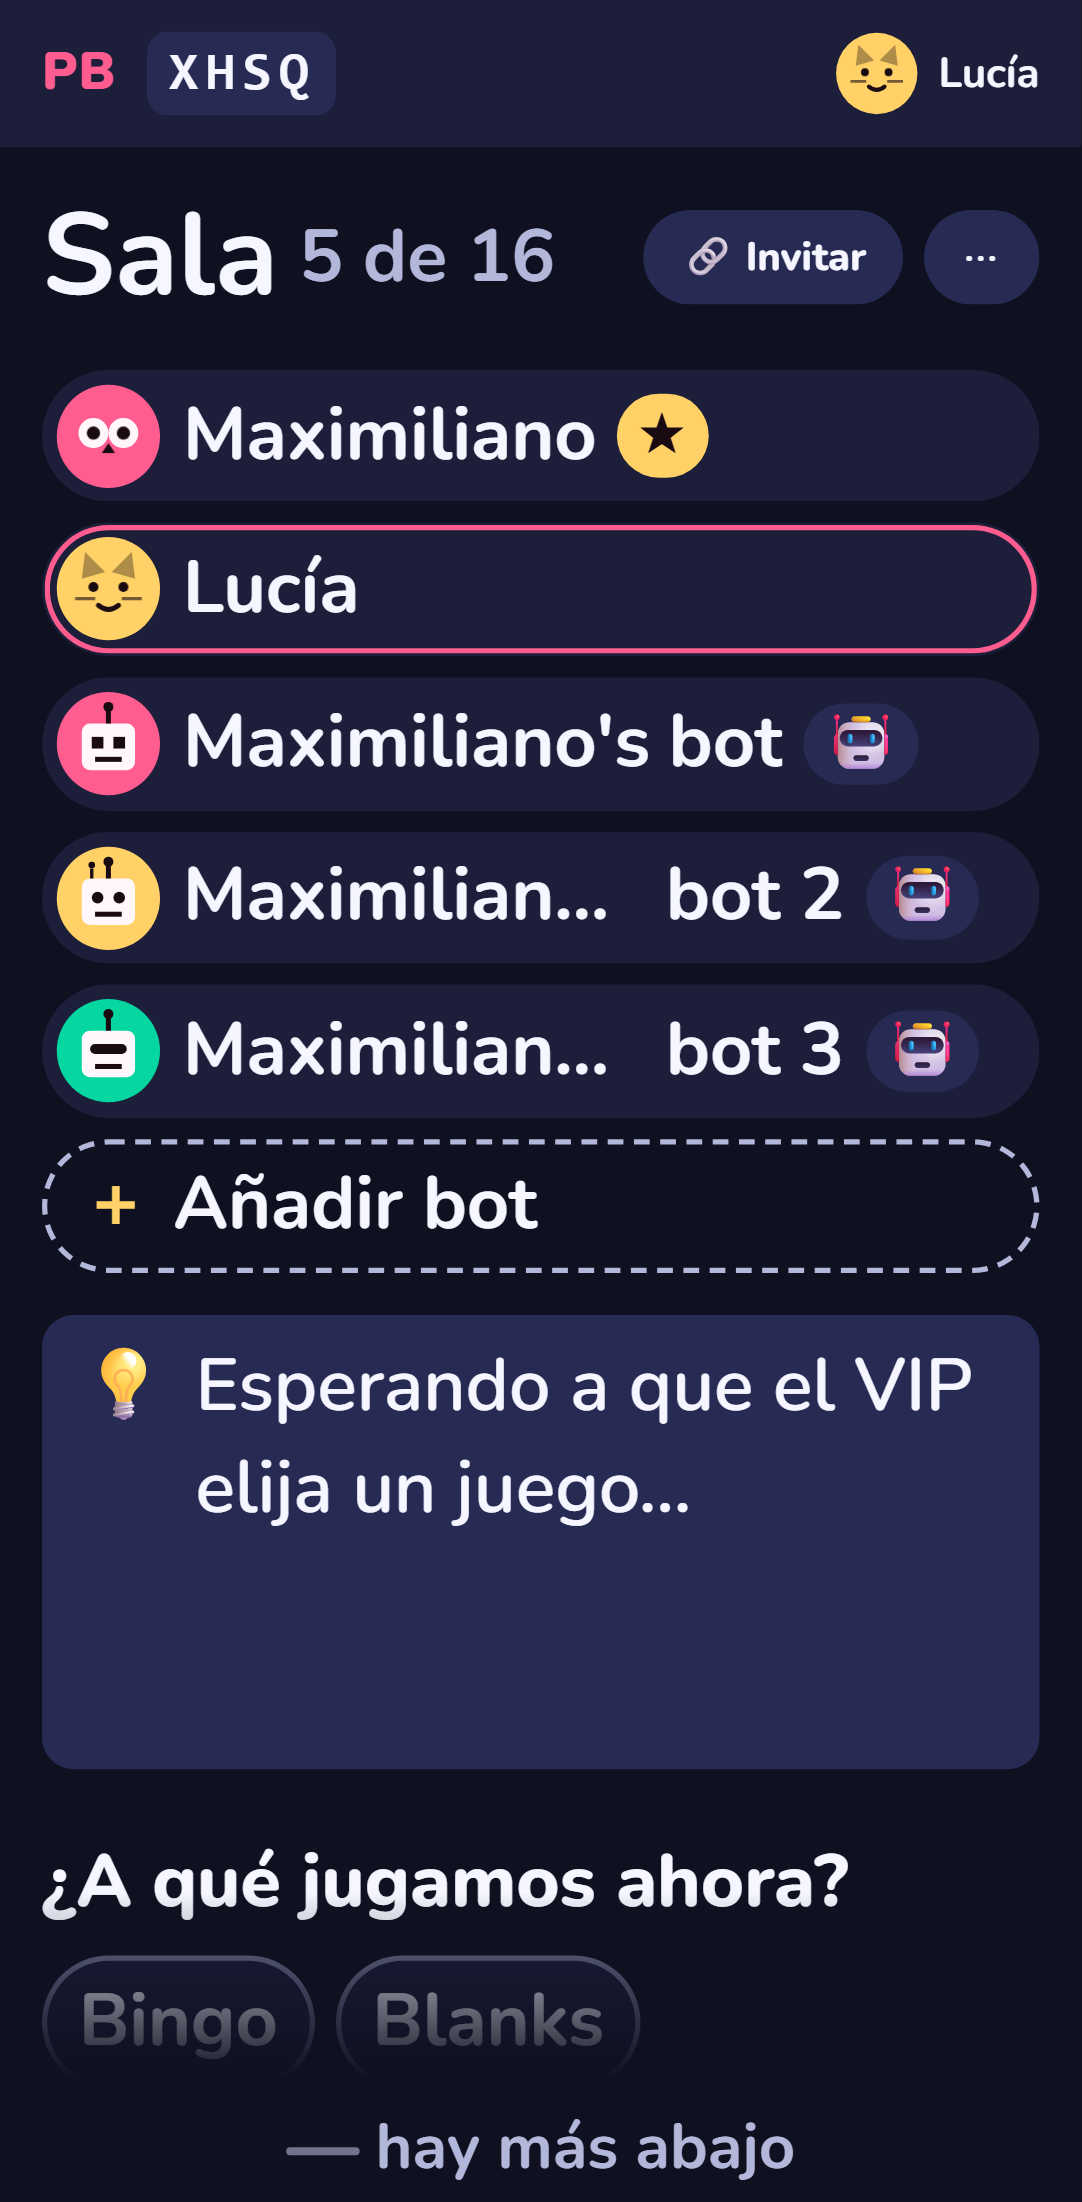
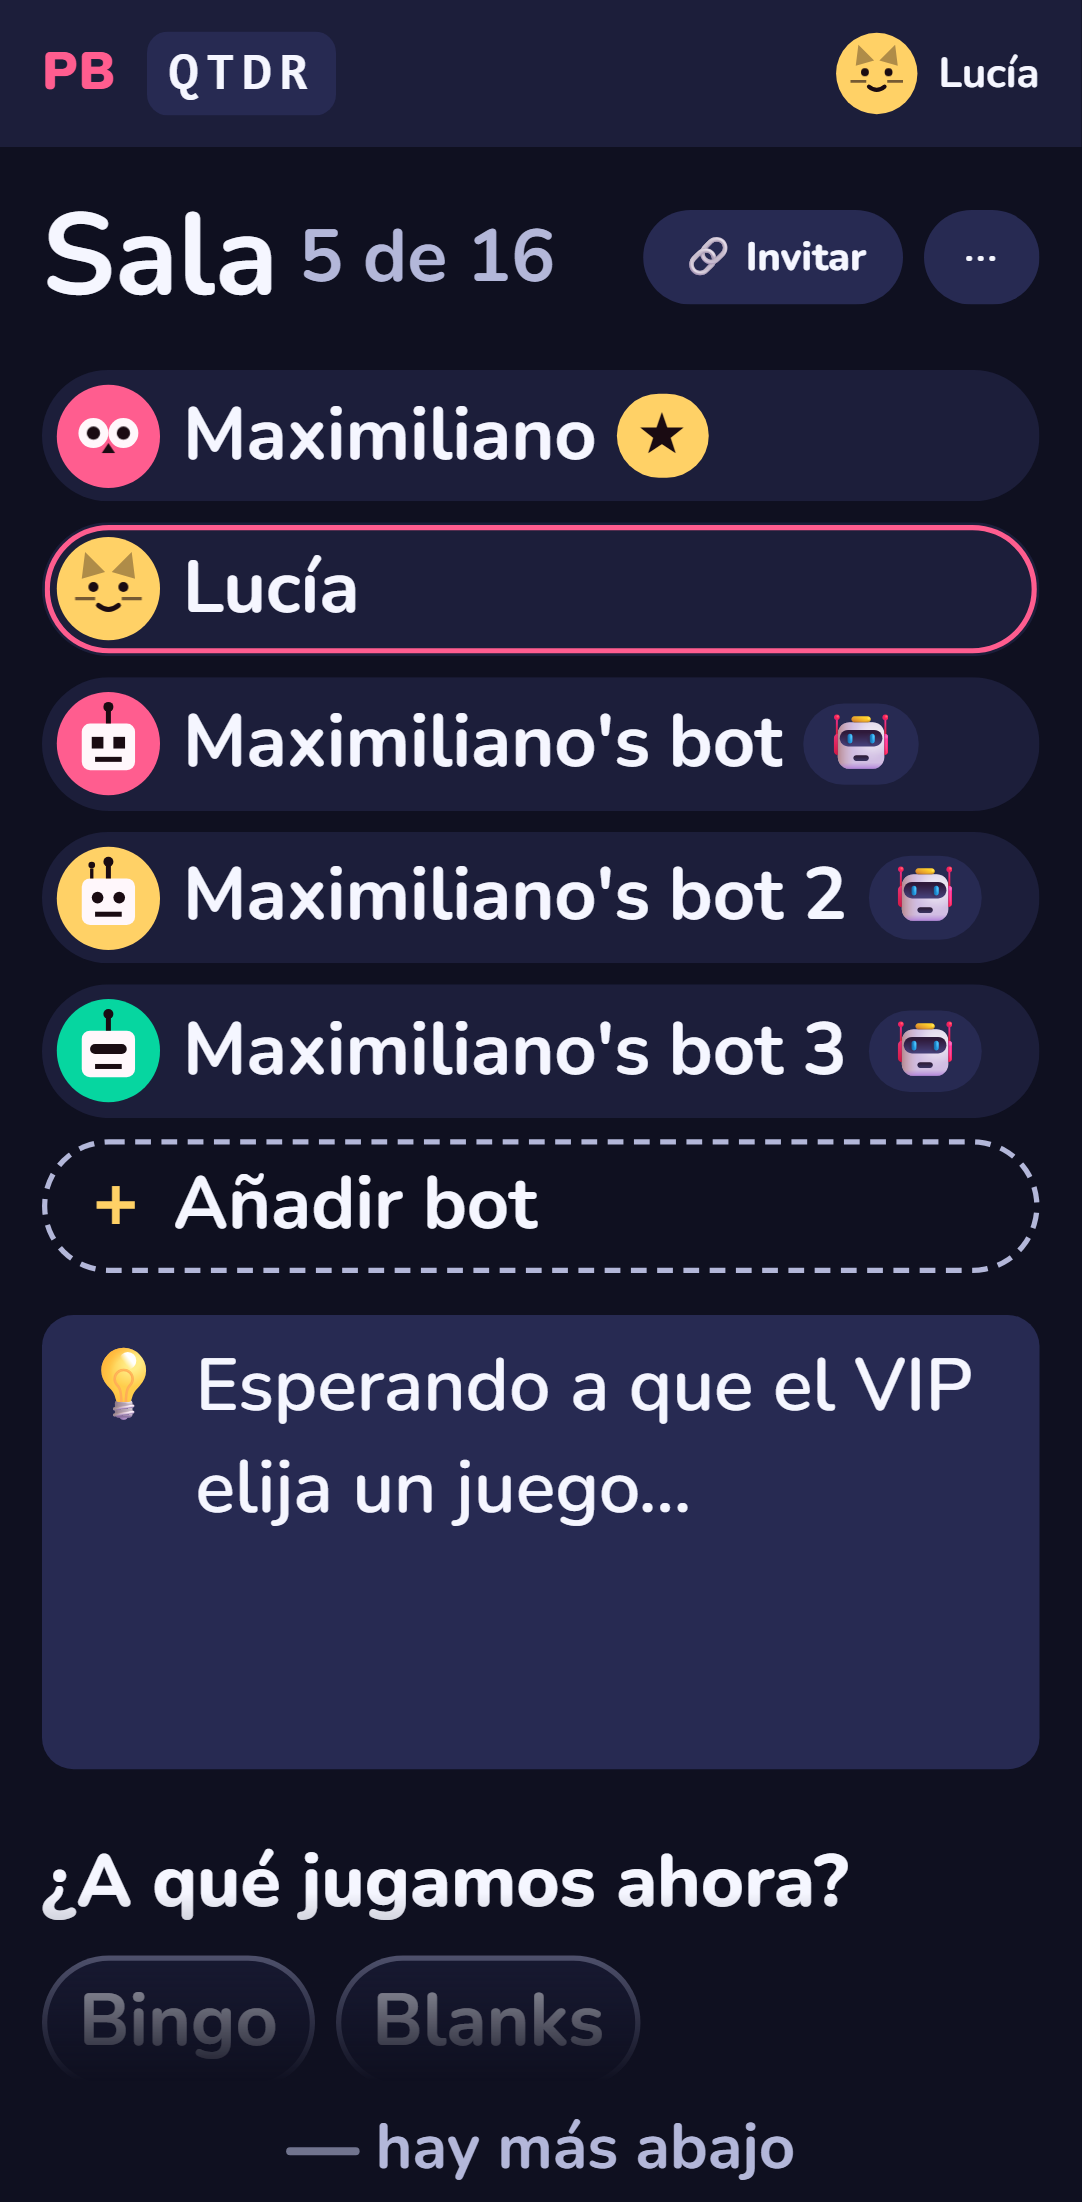
design(chips): a bot's split name gets room for its tail (13 em), so it is whole where the row allows
The reviewer's DESIGN CHANGES on d2c46551 (277967): at 200 % the owner part ellipsized though the
row had room, leaving a ~50 px gap before "bot 2". The cause was the name's 9 em cap (sized for
people on the TV strip), which "Maximiliano's bot 2" exceeds. A split bot name now caps at 13 em
(the person cap plus the tail), so it is whole on the guests' 200 % lobby and the TV (measured:
not clipped, 7 px / 12 px between the parts, the 0.25 em space); the owner part only gives way
where the chip itself is narrow. The VIP's SE lobby still says "Bot 2". Stills refreshed.

diff --git a/packages/game-sdk/src/ui/PlayerChip.module.css b/packages/game-sdk/src/ui/PlayerChip.module.css
@@ -99,10 +99,13 @@
 }
 
 /* faces only (the TV strip past two rows, a claim): no empty name slot, so the chips close up */
-/* A bot's owner part ellipsizes; its "bot 2" tail stays (reviewer 90838c). */
+/* A bot's owner part ellipsizes; its "bot 2" tail stays (reviewer 90838c). The person cap (9 em)
+   plus room for the tail, so "Maximiliano's bot 2" is whole where the row has room and only the
+   owner part gives way where it hasn't (reviewer 277967). */
 .split {
   display: inline-flex;
   min-width: 0;
+  max-width: 13em;
 }
 .nameHead {
   min-width: 0;
